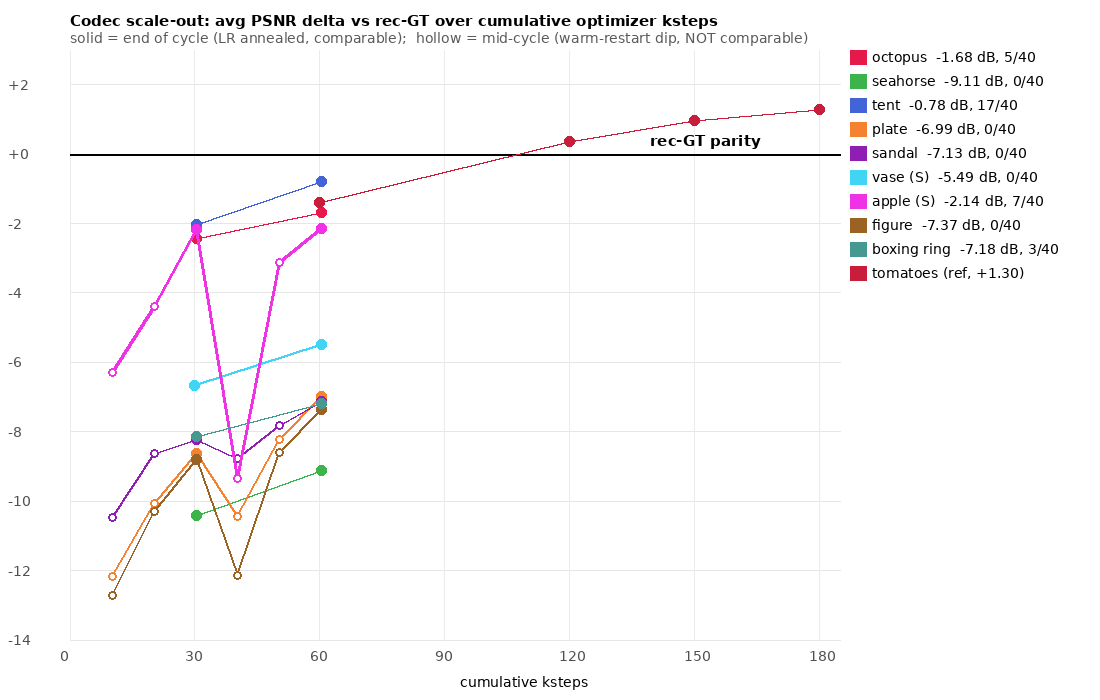
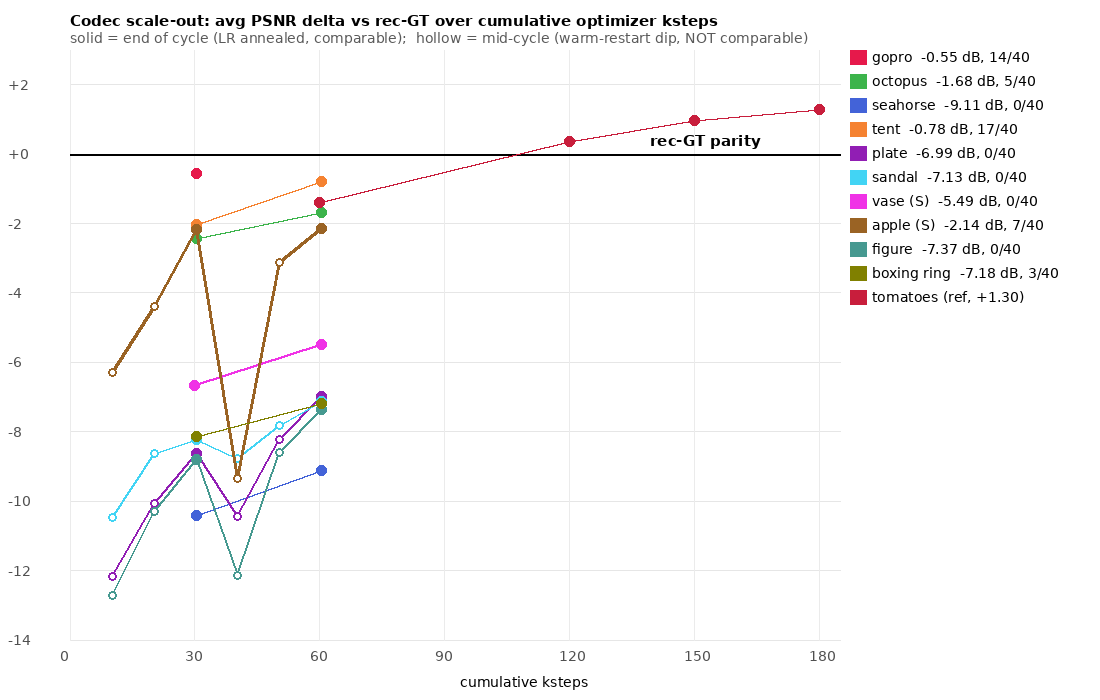
docs(PROGRESS): slipper c1 -0.55 14/40, close 8/8

diff --git a/PROGRESS.md b/PROGRESS.md
@@ -2544,3 +2544,11 @@ _r{N-1}); tent c3 submitted 4-GPU killable. Lab share hit 100 % at ~11:00 (2 TB 
 seahorse c2 (31377491, 4×L40S): rand −9.66 / close −6.35 / far −10.19 = **−9.11 avg, 0/40**
 (c1 −10.4). Same +1.3 dB cycle gain as the rich objects; with a 51 dB bar it is the clearest
 case for the K-sweep (rate–distortion) framing: the model, not the bar, is the constant.
+
+## 2026-08-26: SLIPPER c1 −0.55, 14/40 — best c1 ever; close-range sweep 8/8 (+1.64)
+gopro/crocs slipper c1 (31374518, 4×A40 accum2, 33 h): rand −1.15 (5/24) / close **+1.64
+(8/8)** / far −0.94 (1/8) = **−0.55 avg, 14/40** after ONE cycle. rec-GT bars 35.8/28.2/38.4
+are the lowest in the campaign (1.17M g → 20k = 60× compression of fuzzy fabric). Model
+34.6/29.8/37.5. The dense-wild-scan thesis holds a third time (octopus, tent, slipper): the
+crossover band is set by how lossy the 20k compression is. c2 31374520 running (seeded from
+c1 ep27); expected to cross on avg if the +1 dB cycle gain holds.
